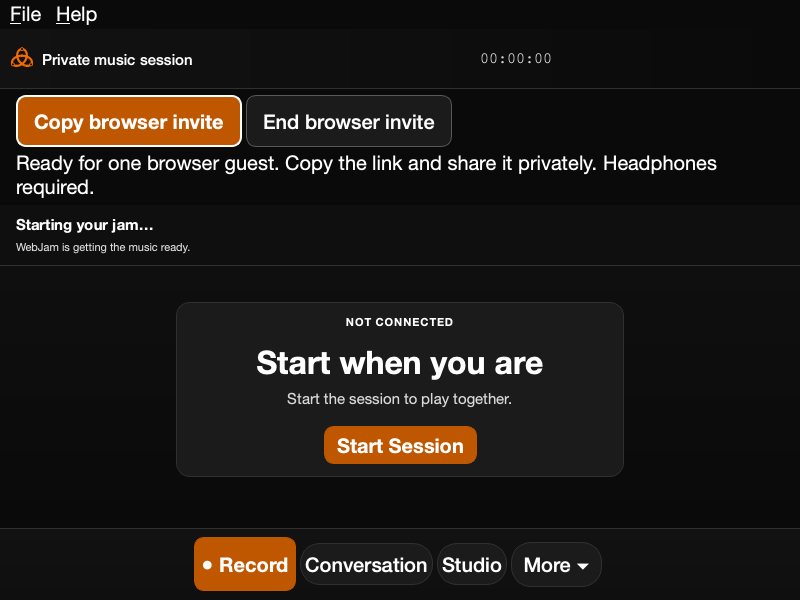
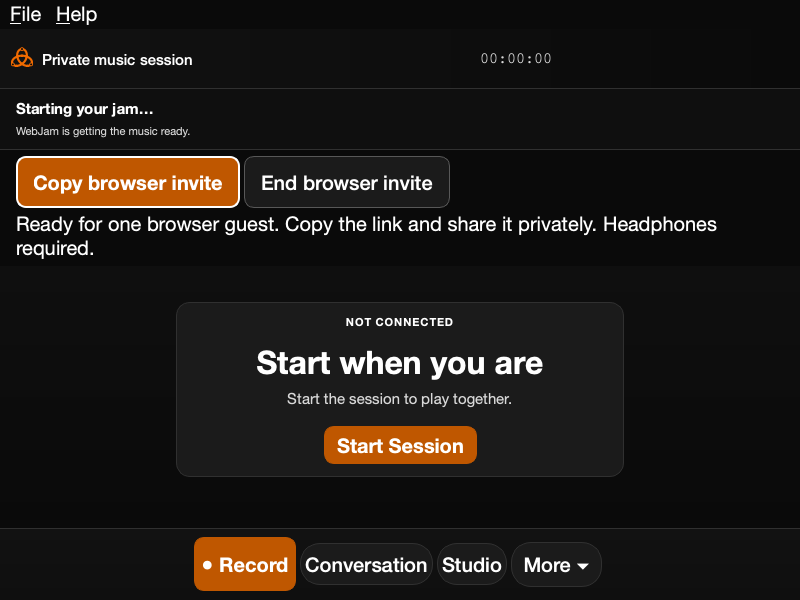
Preserve compact Notes space and include four Bob Ross lesson picks

Changed region(s): [[0.0, 0.15, 0.9062, 0.45]]

diff --git a/webjam_qt/widgets/web_join_panel.py b/webjam_qt/widgets/web_join_panel.py
@@ -1,7 +1,7 @@
 """Visible Music-room actions; permission and clipboard ownership stay in the controller."""
 
-from PySide6.QtCore import Qt, Signal
-from PySide6.QtWidgets import QFrame, QHBoxLayout, QLabel, QPushButton, QVBoxLayout
+from PySide6.QtCore import QEvent, Qt, Signal
+from PySide6.QtWidgets import QBoxLayout, QFrame, QHBoxLayout, QLabel, QPushButton, QVBoxLayout
 
 
 class WebJoinPanel(QFrame):
@@ -19,6 +19,10 @@ class WebJoinPanel(QFrame):
         layout.setContentsMargins(16, 6, 16, 6)
         layout.setSpacing(4)
         row = QHBoxLayout()
+        self._actions = row
+        # Start narrow so minimum width cannot prevent the compact resize that
+        # measures both buttons. This follows the existing Art workspace rows.
+        row.setDirection(QBoxLayout.Direction.TopToBottom)
         self.primary = QPushButton("Invite a browser guest")
         self.primary.setObjectName("PrimaryButton")
         self.primary.setMinimumHeight(36)
@@ -66,4 +70,28 @@ class WebJoinPanel(QFrame):
         self.stop_button.setEnabled(state in {"preparing", "ready", "connected", "cleanup"})
         self.stop_button.setText("Retry ending browser guest" if state == "cleanup" else "End browser invite")
         self.status.setText(message)
+        self._sync_actions()
+
+    def _sync_actions(self):
+        margins = self.layout().contentsMargins()
+        parent = self.parentWidget()
+        available = min(self.width(), parent.width()) if parent is not None else self.width()
+        available -= margins.left() + margins.right()
+        buttons = [button for button in (self.primary, self.stop_button) if not button.isHidden()]
+        needed = sum(button.minimumSizeHint().width() for button in buttons)
+        needed += max(0, len(buttons) - 1) * self._actions.spacing()
+        direction = (QBoxLayout.Direction.TopToBottom if needed > available
+                     else QBoxLayout.Direction.LeftToRight)
+        if self._actions.direction() != direction:
+            self._actions.setDirection(direction)
+
+    def resizeEvent(self, event):
+        super().resizeEvent(event)
+        self._sync_actions()
+
+    def event(self, event):
+        result = super().event(event)
+        if event.type() == QEvent.Type.LayoutRequest and hasattr(self, "status"):
+            self._sync_actions()
+        return result
 

diff --git a/tests/test_paint_along_youtube_ui.py b/tests/test_paint_along_youtube_ui.py
@@ -64,7 +64,11 @@ def test_host_online_failure_names_the_explicit_shared_lesson_handoff(qapp):
     panel.close()
 
 
-def test_curated_episode_uses_normal_lesson_share_and_respects_room_lifetime(qapp):
+@pytest.mark.parametrize("index, url", [
+    (1, "https://www.youtube.com/watch?v=vgbMONXc9Cs"),
+    (3, "https://www.youtube.com/watch?v=mT0RNrTDHkI"),
+])
+def test_curated_episode_uses_normal_lesson_share_and_respects_room_lifetime(qapp, index, url):
     panel = ReferenceVideoDialog(hosting=True)
     panel.show()
     qapp.processEvents()
@@ -73,9 +77,10 @@ def test_curated_episode_uses_normal_lesson_share_and_respects_room_lifetime(qap
     panel.share_youtube_requested.connect(links.append)
     panel.share_requested.connect(files.append)
     assert panel._episode_picker.isVisible()
-    panel._episode_picker.setCurrentIndex(1)
+    assert panel._episode_picker.count() == 4
+    panel._episode_picker.setCurrentIndex(index)
     panel._episode_button.click()
-    assert links == ["https://www.youtube.com/watch?v=vgbMONXc9Cs"]
+    assert links == [url]
     assert not files
     panel.set_host_snapshot(ReferenceVideoSnapshot(state=ReferenceVideoState.LOADING))
     panel._choose_episode()

diff --git a/webjam_qt/windows/conductor_window.py b/webjam_qt/windows/conductor_window.py
@@ -222,6 +222,9 @@ class ConductorWindow(QMainWindow):
         stage_layout = QVBoxLayout(stage_container)
         stage_layout.setContentsMargins(0, 0, 0, 0)
         stage_layout.setSpacing(0)
+        # Invitations belong to the Music stage. Keeping them outside the
+        # full-width chrome preserves Notes' editor/recovery height beside it.
+        stage_layout.addWidget(self.web_guest_panel)
 
         self._room_stage = QStackedWidget()
         self._room_stage.setObjectName("RoomStage")
@@ -288,7 +291,6 @@ class ConductorWindow(QMainWindow):
         central_layout.setContentsMargins(0, 0, 0, 0)
         central_layout.setSpacing(0)
         central_layout.addWidget(self.session_strip)
-        central_layout.addWidget(self.web_guest_panel)
         central_layout.addWidget(self.session_hud)
         central_layout.addWidget(self.rehearsal_recap)
         central_layout.addWidget(self._notes_notice)

diff --git a/tests/test_conductor_window_fit_to_screen.py b/tests/test_conductor_window_fit_to_screen.py
@@ -92,13 +92,17 @@ def test_fit_shortcut_is_bound(window) -> None:
 
 
 @pytest.mark.parametrize("font_size", [14, 20])
-def test_browser_invitation_controls_fit_the_compact_music_window(window, qt_app, font_size):
+@pytest.mark.parametrize("notes_visible", [False, True])
+def test_browser_invitation_controls_fit_the_compact_music_window(window, qt_app, font_size, notes_visible):
     from webjam_qt.theme import load_stylesheet
 
     window.setStyleSheet(load_stylesheet() + f"\nQWidget {{ font-size: {font_size}px; }}")
     panel = window.web_guest_panel
     panel.render("ready", "Ready for one browser guest. Copy the link and share it privately. Headphones required.")
     window.resize(800, 600)
+    window.session_canvas.setVisible(notes_visible)
+    if notes_visible:
+        window.center_splitter.setSizes([520, 280])
     window.show()
     for _ in range(4):
         qt_app.processEvents()

diff --git a/core/paint_along_lessons.py b/core/paint_along_lessons.py
@@ -7,4 +7,6 @@ provider's decision; the existing custom-link and playback recovery stay usable.
 BOB_ROSS_LESSONS = (
     ("A Walk in the Woods · S1 E1", "https://www.youtube.com/watch?v=oh5p5f5_-7A"),
     ("Northern Lights · S8 E13", "https://www.youtube.com/watch?v=vgbMONXc9Cs"),
+    ("Grey Winter · S7 E11", "https://www.youtube.com/watch?v=sS-hNYgDUak"),
+    ("The Grandeur of Summer", "https://www.youtube.com/watch?v=mT0RNrTDHkI"),
 )

diff --git a/docs/BROWSER_GUEST_HOST_READINESS.md b/docs/BROWSER_GUEST_HOST_READINESS.md
@@ -26,7 +26,7 @@ is a demonstrated blocker, not proof that every later stage already works.
 - Frozen apps refuse missing owned libraries instead of falling back to a
   machine's unrelated Opus installation. Source development keeps its existing
   explicit/system-library path.
-- Music has a visible Invite a browser guest button, persistent status,
+- Music has a visible Invite a browser guest button in its stage, persistent status,
   Copy browser invite and End browser invite controls. Preparation failures use
   fixed stage-specific messages; private exception strings, keys and links are
   not displayed. The existing menu remains available.
@@ -43,16 +43,27 @@ session, device capture or connection was created for the render.
 
 ## Validation and delivery boundary
 
-120 focused source tests pass for controls, owners/cleanup, bridge framing,
-package rejection, workflow wiring, compact Music layout and packaged data.
-109 further existing profile/offline/compact follow-along checks pass. Ruff and
+The initial120 focused source checks and109 profile/offline checks passed.
+Full60598d5 CI then reproduced five existing compact Notes failures (plus two
+teardown errors), because full-width invitation chrome took editor/recovery
+space. The unchanged Notes suite reproduced those failures locally. Keep the
+invitation in the Music stage, leaving Notes its original vertical space, and
+wrap its actions when the stage narrows. No Notes threshold or test was weakened.
+
+The corrected combined source passes208 focused cases covering controls,
+owners/cleanup, bridge framing, package rejection, workflow wiring, compact Music
+with and without Notes, all19 Notes recovery cases, Paint Along and follow-along
+compact use. The initial changelog check also failed because its entry lacked
+a Markdown bullet; the existing checker now passes after formatting that entry.
+Ruff and
 shell syntax checks pass. Compact800×600 controls/status fit at14px and20px;
 the20px render was inspected. No skip or guard was added to obtain a pass.
 
 Normal CI, a new matching private package cohort and actual bundled-codec ABI
 execution are still required. Reusing the old e101 package, patching its app in
-place or loading a system codec would not demonstrate this correction. Native
-and browser Paint Along changes are separate application PRs. No release tag,
+place or loading a system codec would not demonstrate this correction. Native Paint Along429 is merged (395c3aa) and included in this candidate;
+the small list now has four official Bob Ross uploads plus the custom-link route.
+Browser Paint Along203 and the IRC workspace204 remain separate website PRs. No release tag,
 public navigation, signing enrollment, StoryPool/Karen dispatch or shared core
 change is part of this fix.
 

diff --git a/docs/PAINT_ALONG_LESSONS.md b/docs/PAINT_ALONG_LESSONS.md
@@ -8,8 +8,13 @@ The desktop starter list uses official uploads:
 
 - [A Walk in the Woods, S1 E1](https://www.youtube.com/watch?v=oh5p5f5_-7A)
 - [Northern Lights, S8 E13](https://www.youtube.com/watch?v=vgbMONXc9Cs)
+- [Grey Winter, S7 E11](https://www.youtube.com/watch?v=sS-hNYgDUak)
+- [The Grandeur of Summer, one-hour special](https://www.youtube.com/watch?v=mT0RNrTDHkI)
 
-Titles/IDs were checked against those official video results on November4,2026.
+Titles/IDs and channel ownership were checked against YouTube’s official oEmbed
+metadata on November4,2026; all four identify Bob Ross’s official channel.
+The first two offer a starting landscape and northern lights; the latter two
+add a winter scene and a longer lesson. These are editorial choices.
 These are starter picks, not a verified ranking of the best or most popular
 videos. Availability and embedding remain subject to YouTube and the uploader.
 The app links/embeds; it does not download or redistribute episodes.

diff --git a/changelog.d/browser-guest-host-readiness.md b/changelog.d/browser-guest-host-readiness.md
@@ -1,1 +1,2 @@
 - Require and verify the custom Opus codec in Mac host packages so browser invitations cannot ship without their audio dependency. Add visible Music-room invite/copy/end controls with persistent, privacy-safe preparation errors and session-bound actions.
+- Keep browser invitations in the Music stage so compact Notes recovery retains its editor space, and offer four curated Bob Ross lessons alongside custom YouTube links in Paint Along.
